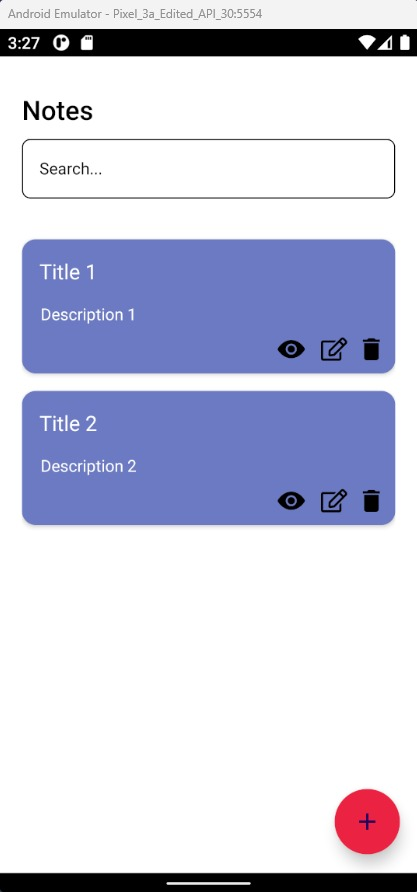
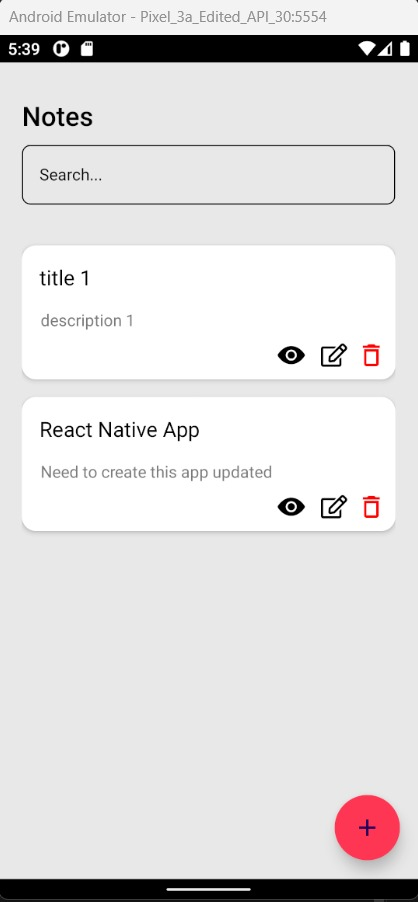
add and edit common component

diff --git a/Screens/EditNotesScreen.js b/Screens/EditNotesScreen.js
@@ -5,20 +5,19 @@ import {Button, Snackbar} from 'react-native-paper';
 import {useDispatch, useSelector} from 'react-redux';
 import {addPost, updatePost} from '../store/postReducer';
 import Ionicons from 'react-native-vector-icons/Ionicons';
+import NoteInput from '../components/NoteInput';
 
 const EditNotesScreen = ({navigation, route}) => {
   const dispatch = useDispatch();
-  const notes = useSelector(state => state.posts.posts);
+  // const notes = useSelector(state => state.posts.posts);
   const {id: currentId} = route.params;
-  const [title, setTitle] = useState('');
-  const [content, setContent] = useState('');
   const [visible, setVisible] = useState(false);
 
   const onToggleSnackBar = message => setVisible(true);
 
   const onDismissSnackBar = () => setVisible(false);
-  const handleEdit = () => {
-    dispatch(updatePost({title, content, id: currentId}));
+  const handleEdit = note => {
+    dispatch(updatePost({id: currentId, ...note}));
     onToggleSnackBar();
     setTimeout(() => {
       onDismissSnackBar();
@@ -26,69 +25,15 @@ const EditNotesScreen = ({navigation, route}) => {
     }, 1000);
   };
 
-  useEffect(() => {
-    const selectedNote = notes.find(item => item.id === currentId);
-    setTitle(selectedNote.title);
-    setContent(selectedNote.content);
-  }, []);
+  // useEffect(() => {
+  //   const selectedNote = notes.find(item => item.id === currentId);
+  //   setTitle(selectedNote.title);
+  //   setContent(selectedNote.content);
+  // }, []);
   return (
     <>
-      <View style={{flex: 1, padding: 15}}>
-        <View style={{flexDirection: 'row', alignItems: 'center'}}>
-          <TouchableOpacity onPress={() => navigation.goBack()}>
-            <Ionicons name="chevron-back-sharp" color="black" size={20} />
-          </TouchableOpacity>
-          <Text
-            style={{
-              color: '#000',
-              fontSize: 28,
-              fontWeight: '700',
-              marginLeft: 15,
-            }}>
-            Edit Note
-          </Text>
-        </View>
-        <View style={{flex: 1, gap: 20, marginTop: 10}}>
-          <View style={{marginTop: 15}}>
-            <Text style={{color: '#000', fontSize: 14}}>Title</Text>
-            <TextInput
-              value={title}
-              placeholder="title"
-              placeholderTextColor={'#908b8b'}
-              onChangeText={value => setTitle(value)}
-              style={{
-                borderWidth: 1,
-                paddingHorizontal: 15,
-                marginTop: 10,
-                borderRadius: 7,
-                color: '#000',
-              }}
-            />
-          </View>
-          <View style={{marginTop: 15}}>
-            <Text style={{color: '#000', fontSize: 14}}>Description</Text>
-            <TextInput
-              value={content}
-              placeholder="Description"
-              multiline
-              numberOfLines={5}
-              textAlignVertical="top"
-              placeholderTextColor={'#908b8b'}
-              onChangeText={value => setContent(value)}
-              style={{
-                borderWidth: 1,
-                paddingHorizontal: 15,
-                marginTop: 10,
-                borderRadius: 7,
-                color: '#000',
-              }}
-            />
-          </View>
-        </View>
-        <Button mode="contained" onPress={handleEdit}>
-          Update
-        </Button>
-      </View>
+      <NoteInput handleSubmit={handleEdit} name={'Update'} id={currentId} />
+
       <Snackbar visible={visible} onDismiss={onDismissSnackBar}>
         {'Note Edited'}
       </Snackbar>

diff --git a/Screens/AddNotesScreen.js b/Screens/AddNotesScreen.js
@@ -5,18 +5,17 @@ import {Button, Snackbar} from 'react-native-paper';
 import {useDispatch} from 'react-redux';
 import {addPost} from '../store/postReducer';
 import Ionicons from 'react-native-vector-icons/Ionicons';
+import NoteInput from '../components/NoteInput';
 
 const AddNotesScreen = ({navigation}) => {
   const dispatch = useDispatch();
-  const [title, setTitle] = useState('');
-  const [content, setContent] = useState('');
   const [visible, setVisible] = useState(false);
 
   const onToggleSnackBar = message => setVisible(true);
 
   const onDismissSnackBar = () => setVisible(false);
-  const handleAdd = () => {
-    dispatch(addPost({id: Date.now(), title, content}));
+  const handleAdd = note => {
+    dispatch(addPost({id: Date.now(), ...note}));
     onToggleSnackBar();
     setTimeout(() => {
       onDismissSnackBar();
@@ -25,60 +24,7 @@ const AddNotesScreen = ({navigation}) => {
   };
   return (
     <>
-      <View style={{flex: 1, padding: 15}}>
-        <View style={{flexDirection: 'row', alignItems: 'center'}}>
-          <TouchableOpacity onPress={() => navigation.goBack()}>
-            <Ionicons name="chevron-back-sharp" color="black" size={20} />
-          </TouchableOpacity>
-          <Text
-            style={{
-              color: '#000',
-              fontSize: 28,
-              fontWeight: '700',
-              marginLeft: 15,
-            }}>
-            Add Notes
-          </Text>
-        </View>
-        <View style={{flex: 1, gap: 20, marginTop: 10}}>
-          <View style={{marginTop: 15}}>
-            <Text style={{color: '#000', fontSize: 14}}>Title</Text>
-            <TextInput
-              placeholder="title"
-              placeholderTextColor={'#908b8b'}
-              onChangeText={value => setTitle(value)}
-              style={{
-                borderWidth: 1,
-                paddingHorizontal: 15,
-                marginTop: 10,
-                borderRadius: 7,
-                color: '#000',
-              }}
-            />
-          </View>
-          <View style={{marginTop: 15}}>
-            <Text style={{color: '#000', fontSize: 14}}>Description</Text>
-            <TextInput
-              placeholder="Description"
-              multiline
-              numberOfLines={5}
-              textAlignVertical="top"
-              placeholderTextColor={'#908b8b'}
-              onChangeText={value => setContent(value)}
-              style={{
-                borderWidth: 1,
-                paddingHorizontal: 15,
-                marginTop: 10,
-                borderRadius: 7,
-                color: '#000',
-              }}
-            />
-          </View>
-        </View>
-        <Button mode="contained" onPress={handleAdd}>
-          Add
-        </Button>
-      </View>
+      <NoteInput handleSubmit={handleAdd} name={'Add'} />
       <Snackbar visible={visible} onDismiss={onDismissSnackBar}>
         {'Note added'}
       </Snackbar>

diff --git a/components/NoteInput.js b/components/NoteInput.js
@@ -1,0 +1,94 @@
+import {
+  StyleSheet,
+  Text,
+  TextInput,
+  TouchableOpacity,
+  View,
+} from 'react-native';
+import React, {useCallback, useEffect, useState} from 'react';
+import {useNavigation} from '@react-navigation/native';
+import {useSelector} from 'react-redux';
+import Ionicons from 'react-native-vector-icons/Ionicons';
+import {Button} from 'react-native-paper';
+
+const NoteInput = ({name, handleSubmit, id}) => {
+  const [note, setNote] = useState({title: '', content: ''});
+  const navigation = useNavigation();
+  const notes = useSelector(state => state.posts.posts);
+
+  const handleChange = useCallback((field, value) => {
+    setNote(prev => ({...prev, [field]: value}));
+  }, []);
+
+  useEffect(() => {
+    if (id) {
+      const selectedNote = notes.find(item => item.id === id);
+      setNote(selectedNote);
+    }
+  }, []);
+
+  return (
+    <>
+      <View style={{flex: 1, padding: 15}}>
+        <View style={{flexDirection: 'row', alignItems: 'center'}}>
+          <TouchableOpacity onPress={() => navigation.goBack()}>
+            <Ionicons name="chevron-back-sharp" color="black" size={20} />
+          </TouchableOpacity>
+          <Text
+            style={{
+              color: '#000',
+              fontSize: 28,
+              fontWeight: '700',
+              marginLeft: 15,
+            }}>
+            {name} Note
+          </Text>
+        </View>
+        <View style={{flex: 1, gap: 20, marginTop: 10}}>
+          <View style={{marginTop: 15}}>
+            <Text style={{color: '#000', fontSize: 14}}>Title</Text>
+            <TextInput
+              placeholder="title"
+              placeholderTextColor={'#908b8b'}
+              onChangeText={value => handleChange('title', value)}
+              value={note.title}
+              style={{
+                borderWidth: 1,
+                paddingHorizontal: 15,
+                marginTop: 10,
+                borderRadius: 7,
+                color: '#000',
+              }}
+            />
+          </View>
+          <View style={{marginTop: 15}}>
+            <Text style={{color: '#000', fontSize: 14}}>Description</Text>
+            <TextInput
+              placeholder="Description"
+              multiline
+              numberOfLines={5}
+              value={note.content}
+              textAlignVertical="top"
+              placeholderTextColor={'#908b8b'}
+              onChangeText={value => handleChange('content', value)}
+              style={{
+                borderWidth: 1,
+                paddingHorizontal: 15,
+                marginTop: 10,
+                borderRadius: 7,
+                color: '#000',
+              }}
+            />
+          </View>
+        </View>
+        <Button mode="contained" onPress={() => handleSubmit(note)}>
+          {name}
+        </Button>
+      </View>
+    </>
+  );
+};
+
+export default NoteInput;
+
+const styles = StyleSheet.create({});

diff --git a/components/NotesCard.js b/components/NotesCard.js
@@ -13,10 +13,10 @@ export default function NotesCard({title, content, id, handleDelete}) {
   const navigation = useNavigation();
 
   return (
-    <Card style={{backgroundColor: '#6b7ac2'}}>
-      <Text style={{color: '#fff', fontSize: 18, padding: 15}}>{title}</Text>
+    <Card style={{backgroundColor: '#ffffff'}}>
+      <Text style={{color: '#000', fontSize: 18, padding: 15}}>{title}</Text>
       <Card.Content>
-        <Text variant="bodyMedium" style={{color: '#fff'}}>
+        <Text variant="bodyMedium" style={{color: '#6c6c6ce6'}}>
           {content.length > 100 ? content.slice(0, 100) + '...' : content}
         </Text>
       </Card.Content>
@@ -31,7 +31,7 @@ export default function NotesCard({title, content, id, handleDelete}) {
           <FA name="edit" color="black" size={20} />
         </TouchableOpacity>
         <TouchableOpacity onPress={() => handleDelete(id)}>
-          <MaterialIcon name="delete" color="black" size={25} />
+          <MaterialIcon name="delete-outline" color="red" size={25} />
         </TouchableOpacity>
       </Card.Actions>
     </Card>

diff --git a/Screens/HomeScreen.js b/Screens/HomeScreen.js
@@ -52,7 +52,7 @@ const HomeScreen = ({navigation}) => {
           paddingHorizontal: 20,
           paddingTop: 30,
           flex: 1,
-          backgroundColor: 'white',
+          backgroundColor: '#e8e8e8',
         }}>
         <Text style={{fontSize: 23, fontWeight: '500', color: '#000'}}>
           Notes
@@ -76,7 +76,7 @@ const HomeScreen = ({navigation}) => {
               renderItem={renderItem}
               contentContainerStyle={{
                 gap: 15,
-                backgroundColor: 'white',
+                backgroundColor: '#e8e8e8',
                 paddingVertical: 20,
                 paddingBottom: 65,
               }}
@@ -128,6 +128,6 @@ const styles = StyleSheet.create({
     justifyContent: 'center',
     alignItems: 'center',
     elevation: 4,
-    backgroundColor: '#ec2442',
+    backgroundColor: '#ff3554',
   },
 });
